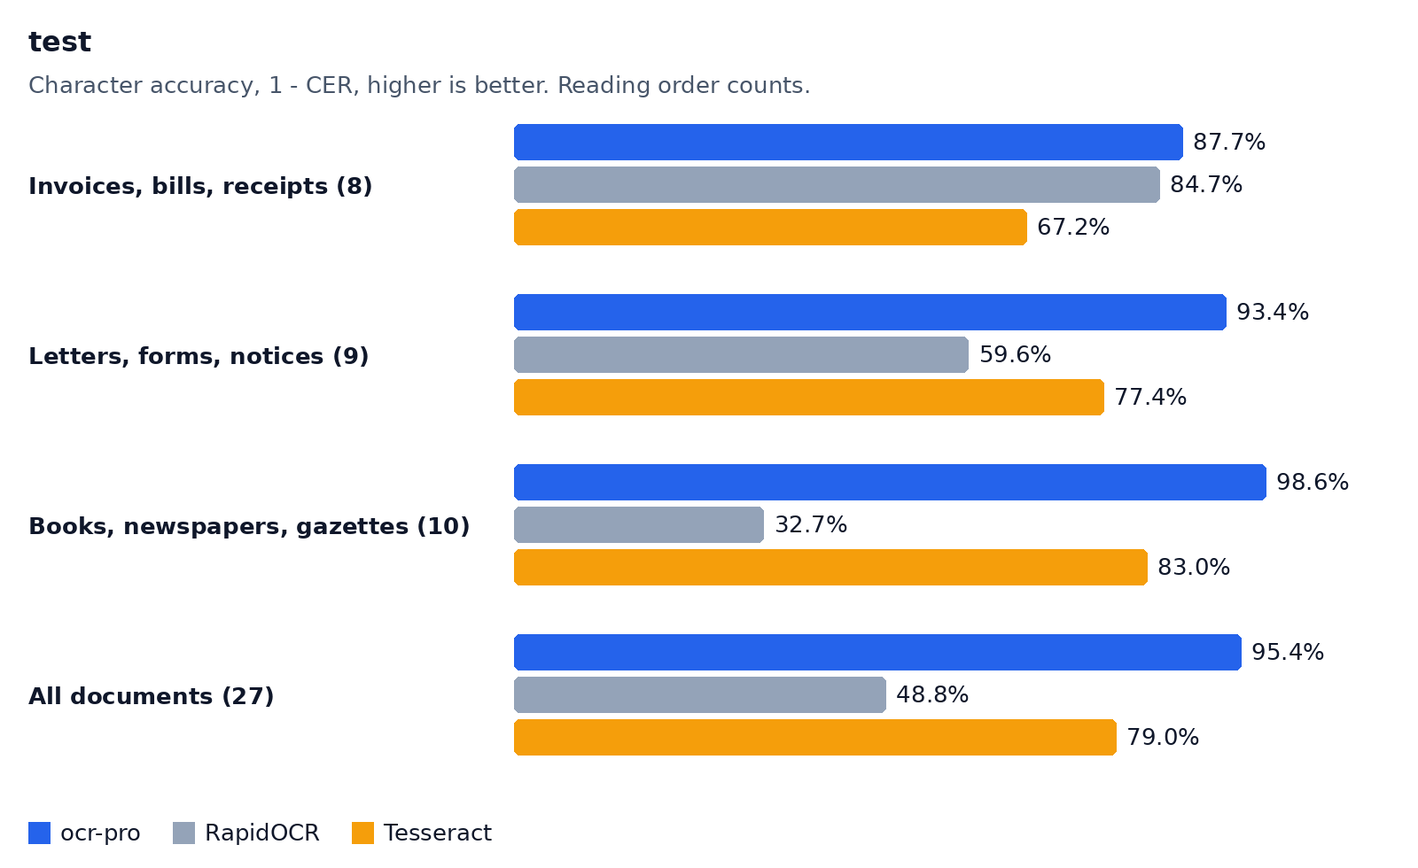
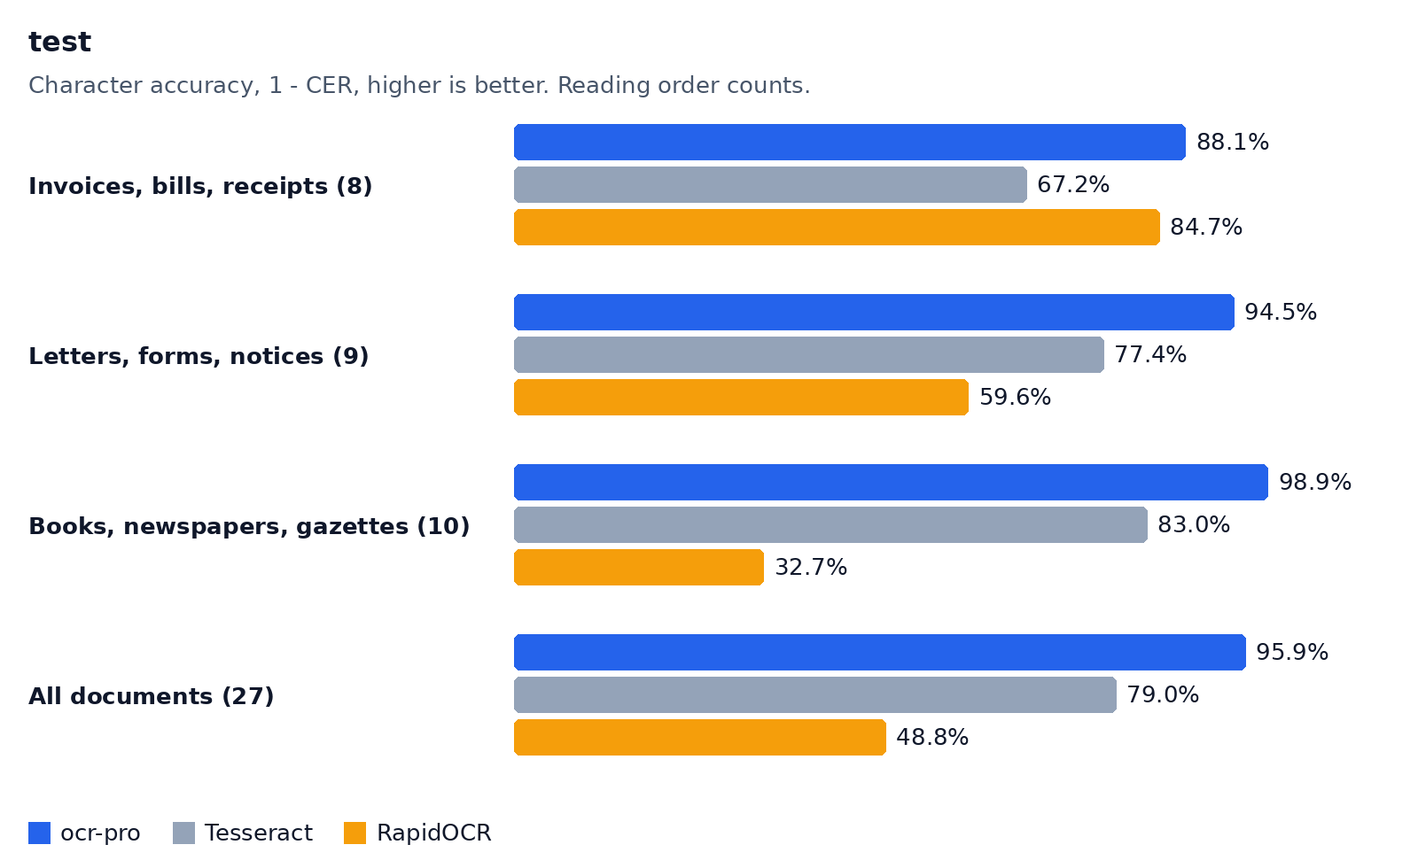
Rebuild the benchmark tables of dev and test with 105 dev documents, and add their charts.

diff --git a/docs/benchmark.md b/docs/benchmark.md
@@ -6,7 +6,7 @@ them. This benchmark uses public documents with references transcribed by hand, 
 
 | Set | Documents | Role |
 | --- | --- | --- |
-| `dev` | 70 (37 PL, 33 EN), 148,127 characters | Used to find and fix problems: the first 20 documents, 16 multi-column pages added for the reading-order work, 3 Official Journal pages moved from `test3` on 2026-10-15, and 31 business documents (receipts, invoices, letters, memos, forms) added on 2026-11-14. The tables below are still those of the first 39 documents (110,882 characters). Its numbers are **not independent**. |
+| `dev` | 105 (55 PL, 50 EN), 203,320 characters | Used to find and fix problems: the first 20 documents, 16 multi-column pages added for the reading-order work, 3 Official Journal pages moved from `test3` on 2026-10-15, and 66 business documents (receipts, invoices, letters, memos, forms, notices) added in three batches on 2026-11-14 and 2026-11-15. Its numbers are **not independent**. |
 | `test` | 27 (18 PL, 9 EN), 59,772 characters | Scored once, before the reading-order work. Its failures then pointed at what to fix, so it is **no longer independent** either. |
 | `test2` | 20 (10 PL, 10 EN), 82,338 characters | Collected during the reading-order work, without looking at any engine output, and scored at the end; scored again after the column-gutter change, which was built on `dev` only (see below). **The honest number.** Do not tune on it. |
 | `test3` | 97 (47 PL, 50 EN), 245,601 characters | Collected without looking at any engine output and checked a second time against the images. Scored once, on 2026-11-14, to decide the box threshold and the dropping of fragments (see "Results on `test3`"); three of its pages had been scored by mistake the same day. It is spent for tuning: do not tune on it. 77 of its pages are books, newspapers and gazettes, so its headline number is the mean of the three document groups. |
@@ -37,12 +37,12 @@ missing. The references are in `bench/ref/<set>/` and carry the same attribution
 
 | Kind | dev | test | test2 | test3 |
 | --- | --- | --- | --- | --- |
-| invoices, bills, receipts | 3 PL, 3 EN | 6 PL, 2 EN | 2 PL, 2 EN | 6 PL, 9 EN |
-| letters, forms, notices | 5 PL, 5 EN | 4 PL, 4 EN | 1 PL, 1 EN | 2 PL, 1 EN |
+| invoices, bills, receipts | 15 PL, 16 EN | 6 PL, 2 EN | 2 PL, 2 EN | 6 PL, 9 EN |
+| letters, forms, notices | 27 PL, 23 EN | 4 PL, 4 EN | 1 PL, 1 EN | 2 PL, 1 EN |
 | books, dictionaries, encyclopedias | 3 PL, 3 EN | 5 PL | 4 PL, 2 EN | 21 PL, 18 EN |
 | newspapers, journals, papers | 5 PL, 5 EN | 3 EN | 2 PL, 3 EN | 10 PL, 16 EN |
 | gazettes, official journals | 5 PL, 2 EN | 2 PL, 1 EN (other) | 1 PL, 2 EN | 6 PL, 6 EN |
-| other | | | | 2 PL tickets |
+| other | 1 EN | | | 2 PL tickets |
 
 Most pages of books, newspapers and gazettes have two or more columns: dictionaries and
 encyclopedias, the Official Journal of the EU, Dziennik Ustaw, 19th-century newspapers with three
@@ -104,8 +104,8 @@ move at three decimals (0.0461 to 0.0462). The other ocr-pro columns of those ro
 gray pages of `test2` (Tesco 1994, NSAM 125, Przegląd Tygodniowy 1903) were not rescored.
 
 All engines ran on one laptop: Intel Core i7-1365U (2 performance + 8 efficiency cores,
-12 threads), Linux, OpenJDK 21.0.12, in one session on 2026-10-15 with no other heavy job
-running, so the times can be compared across engines. The page time is the median over the
+12 threads), Linux, OpenJDK 21.0.12. The times of `test2` are from one session on 2026-10-15
+with no other heavy job running, so they can be compared across engines. The page time is the median over the
 documents of the set; what each engine's time includes is under [Reproduce](#reproduce).
 
 Each set has two tables: one for the whole set, and one with the pooled CER of each document
@@ -137,10 +137,10 @@ neither.
 
 ## Results on `test2`
 
-The tables of `test2`, `test` and `dev` below are from before 2026-11-14: box threshold 0.5,
-fragments kept, and none of that day's changes (gray files read as stored, pages turned and
-levelled, the reading-order fixes). On `test` and the first 39 pages of `dev` the new defaults
-alone took the default profile from 5,315 edits to 4,902; the tables have not been rebuilt.
+The tables of `test2` are from before 2026-11-14: box threshold 0.5, fragments kept, and none
+of the changes since (gray files read as stored, pages turned, levelled and laid flat, the
+reading-order rules for blocks side by side). `test2` has not been scored again, so as not to
+spend it; `test` and `dev` below were, on 2026-11-15.
 
 ![Character accuracy on test2 by document kind](benchmark-test2.png)
 
@@ -191,23 +191,31 @@ Per document, CER / word F1:
 
 ## Results on `test`
 
-| Engine | CER pooled (pl / en / all) | CER median | Word F1 pooled (pl / en / all) | Median page time |
-| --- | --- | --- | --- | --- |
-| ocr-pro | 0.054 / 0.026 / 0.046 | 0.025 | 0.915 / 0.960 / 0.930 | 3.7 s |
-| ocr-pro + polish | 0.052 / 0.025 / 0.044 | 0.020 | 0.934 / 0.969 / 0.946 | — |
-| ocr-pro, fast (960 px) | 0.068 / 0.028 / 0.056 | 0.029 | 0.893 / 0.960 / 0.915 | 2.6 s |
-| ocr-pro, rows (`--layout rows`) | 0.506 / 0.498 / 0.504 | 0.157 | 0.914 / 0.960 / 0.930 | 3.4 s |
-| ocr-pro, Latin alphabet (`--alphabet latin`) | 0.054 / 0.026 / 0.046 | 0.025 | 0.915 / 0.961 / 0.930 | 3.0 s |
-| RapidOCR (same models) | 0.514 / 0.508 / 0.512 | 0.237 | 0.914 / 0.958 / 0.929 | 3.7 s |
-| Tesseract 5 | 0.237 / 0.148 / 0.210 | 0.149 | 0.840 / 0.883 / 0.854 | 1.5 s |
+Scored on 2026-11-15 with the engine of that day (every change described in this document,
+the defaults since 2026-11-14 among them). Tesseract and RapidOCR were run again the same night
+and give what they gave before. Page times are left out of the tables of `test` and `dev`:
+other jobs ran on the machine, and the times of that night say nothing. The last ones measured
+alone are in "What the numbers say".
+
+![Character accuracy on test by document kind](benchmark-test.png)
+
+| Engine | CER pooled (pl / en / all) | CER median | Word F1 pooled (pl / en / all) |
+| --- | --- | --- | --- |
+| ocr-pro | 0.048 / 0.022 / 0.041 | 0.021 | 0.915 / 0.964 / 0.932 |
+| ocr-pro + polish | 0.046 / 0.021 / 0.038 | 0.021 | 0.935 / 0.973 / 0.948 |
+| ocr-pro, fast (960 px) | 0.060 / 0.023 / 0.049 | 0.022 | 0.898 / 0.960 / 0.919 |
+| ocr-pro, rows (`--layout rows`) | 0.511 / 0.502 / 0.508 | 0.152 | 0.915 / 0.964 / 0.931 |
+| ocr-pro, Latin alphabet (`--alphabet latin`) | 0.049 / 0.022 / 0.041 | 0.021 | 0.915 / 0.964 / 0.932 |
+| RapidOCR (same models) | 0.514 / 0.508 / 0.512 | 0.237 | 0.914 / 0.958 / 0.929 |
+| Tesseract 5 | 0.237 / 0.148 / 0.210 | 0.149 | 0.840 / 0.883 / 0.854 |
 
 | Engine | Invoices, bills, receipts (8) | Letters, forms, notices (9) | Books, newspapers, gazettes (10) | Mean of groups |
 | --- | --- | --- | --- | --- |
-| ocr-pro | 0.123 | 0.066 | 0.014 | 0.068 |
-| ocr-pro + polish | 0.120 | 0.065 | 0.011 | 0.065 |
-| ocr-pro, fast (960 px) | 0.138 | 0.097 | 0.010 | 0.082 |
-| ocr-pro, rows (`--layout rows`) | 0.127 | 0.393 | 0.671 | 0.397 |
-| ocr-pro, Latin alphabet (`--alphabet latin`) | 0.123 | 0.066 | 0.014 | 0.068 |
+| ocr-pro | 0.119 | 0.055 | 0.011 | 0.062 |
+| ocr-pro + polish | 0.116 | 0.054 | 0.008 | 0.059 |
+| ocr-pro, fast (960 px) | 0.129 | 0.079 | 0.010 | 0.073 |
+| ocr-pro, rows (`--layout rows`) | 0.124 | 0.403 | 0.673 | 0.400 |
+| ocr-pro, Latin alphabet (`--alphabet latin`) | 0.119 | 0.055 | 0.011 | 0.062 |
 | RapidOCR (same models) | 0.153 | 0.404 | 0.673 | 0.410 |
 | Tesseract 5 | 0.328 | 0.226 | 0.170 | 0.241 |
 
@@ -215,55 +223,62 @@ Per document, CER / word F1:
 
 | Document | ocr-pro | fast | rows | RapidOCR | Tesseract |
 | --- | --- | --- | --- | --- | --- |
-| en-bill-nb-telephone-1932 | 0.195 / 0.843 | 0.220 / 0.876 | 0.195 / 0.843 | 0.282 / 0.852 | 0.464 / 0.642 |
-| en-form-bill-of-sale-reg135 | 0.003 / 0.998 | 0.029 / 0.962 | 0.003 / 0.998 | 0.014 / 0.996 | 0.039 / 0.924 |
-| en-journal-nature-1896-p419 | 0.053 / 0.972 | 0.022 / 0.995 | 0.633 / 0.972 | 0.614 / 0.962 | 0.429 / 0.949 |
-| en-magazine-outing-v45-developers | 0.001 / 0.995 | 0.002 / 0.993 | 0.711 / 0.994 | 0.712 / 0.996 | 0.003 / 0.991 |
-| en-memo-conference-president-1954 | 0.079 / 0.945 | 0.076 / 0.960 | 0.077 / 0.952 | 0.082 / 0.940 | 0.051 / 0.939 |
-| en-newspaper-aparri-news-1900 | 0.014 / 0.933 | 0.013 / 0.935 | 0.744 / 0.933 | 0.750 / 0.925 | 0.197 / 0.774 |
-| en-poster-coalbrookdale-auction-1910 | 0.033 / 0.972 | 0.030 / 0.944 | 0.033 / 0.972 | 0.082 / 0.974 | 0.075 / 0.861 |
+| en-bill-nb-telephone-1932 | 0.189 / 0.862 | 0.218 / 0.870 | 0.189 / 0.862 | 0.282 / 0.852 | 0.464 / 0.642 |
+| en-form-bill-of-sale-reg135 | 0.008 / 0.991 | 0.011 / 0.972 | 0.008 / 0.991 | 0.014 / 0.996 | 0.039 / 0.924 |
+| en-journal-nature-1896-p419 | 0.022 / 0.995 | 0.022 / 0.995 | 0.659 / 0.995 | 0.614 / 0.962 | 0.429 / 0.949 |
+| en-magazine-outing-v45-developers | 0.001 / 0.995 | 0.001 / 0.995 | 0.715 / 0.995 | 0.712 / 0.996 | 0.003 / 0.991 |
+| en-memo-conference-president-1954 | 0.077 / 0.947 | 0.077 / 0.942 | 0.077 / 0.947 | 0.082 / 0.940 | 0.051 / 0.939 |
+| en-newspaper-aparri-news-1900 | 0.013 / 0.936 | 0.013 / 0.936 | 0.745 / 0.936 | 0.750 / 0.925 | 0.197 / 0.774 |
+| en-poster-coalbrookdale-auction-1910 | 0.022 / 0.978 | 0.020 / 0.948 | 0.022 / 0.978 | 0.082 / 0.974 | 0.075 / 0.861 |
 | en-programme-toledo-symphony-1921 | 0.086 / 0.844 | 0.087 / 0.853 | 0.086 / 0.844 | 0.136 / 0.853 | 0.136 / 0.778 |
-| en-receipt-fanzz-2002 | 0.014 / 0.923 | 0.138 / 0.939 | 0.014 / 0.923 | 0.014 / 0.940 | 1.000 / 0.000 |
-| pl-biblia-wujek-1923-s296 | 0.007 / 0.962 | 0.007 / 0.964 | 0.753 / 0.957 | 0.753 / 0.966 | 0.434 / 0.972 |
-| pl-cennik-nr7-poznan-1937-s67 | 0.159 / 0.602 | 0.155 / 0.635 | 0.159 / 0.602 | 0.237 / 0.611 | 0.313 / 0.429 |
-| pl-dziennik-ustaw-1952-s374 | 0.025 / 0.884 | 0.026 / 0.877 | 0.748 / 0.884 | 0.750 / 0.879 | 0.057 / 0.845 |
+| en-receipt-fanzz-2002 | 0.014 / 0.931 | 0.014 / 0.939 | 0.014 / 0.931 | 0.014 / 0.940 | 1.000 / 0.000 |
+| pl-biblia-wujek-1923-s296 | 0.007 / 0.962 | 0.008 / 0.963 | 0.753 / 0.957 | 0.753 / 0.966 | 0.434 / 0.972 |
+| pl-cennik-nr7-poznan-1937-s67 | 0.167 / 0.630 | 0.179 / 0.649 | 0.167 / 0.630 | 0.237 / 0.611 | 0.313 / 0.429 |
+| pl-dziennik-ustaw-1952-s374 | 0.019 / 0.888 | 0.026 / 0.878 | 0.751 / 0.888 | 0.750 / 0.879 | 0.057 / 0.845 |
 | pl-dziennik-ustaw-1994-s302 | 0.002 / 0.995 | 0.002 / 0.995 | 0.727 / 0.995 | 0.732 / 0.994 | 0.001 / 0.991 |
-| pl-encyklopedja-staropolska-1900-s42 | 0.006 / 0.960 | 0.008 / 0.950 | 0.714 / 0.960 | 0.715 / 0.967 | 0.408 / 0.981 |
-| pl-faktura-pge-specyfikacja-2019 | 0.133 / 0.868 | 0.133 / 0.776 | 0.127 / 0.868 | 0.159 / 0.855 | 0.273 / 0.594 |
-| pl-obwieszczenie-stan-wojenny-1981 | 0.095 / 0.913 | 0.164 / 0.824 | 0.619 / 0.913 | 0.619 / 0.919 | 0.493 / 0.849 |
+| pl-encyklopedja-staropolska-1900-s42 | 0.005 / 0.962 | 0.007 / 0.951 | 0.713 / 0.962 | 0.715 / 0.967 | 0.408 / 0.981 |
+| pl-faktura-pge-specyfikacja-2019 | 0.132 / 0.869 | 0.131 / 0.782 | 0.126 / 0.869 | 0.159 / 0.855 | 0.273 / 0.594 |
+| pl-obwieszczenie-stan-wojenny-1981 | 0.075 / 0.899 | 0.129 / 0.836 | 0.649 / 0.899 | 0.619 / 0.919 | 0.493 / 0.849 |
 | pl-odezwa-zhp-lodz-1935 | 0.017 / 0.969 | 0.029 / 0.957 | 0.768 / 0.969 | 0.768 / 0.967 | 0.009 / 0.967 |
-| pl-paragon-castorama-2021 | 0.020 / 0.853 | 0.038 / 0.794 | 0.020 / 0.853 | 0.024 / 0.842 | 0.137 / 0.748 |
+| pl-paragon-castorama-2021 | 0.021 / 0.857 | 0.043 / 0.792 | 0.021 / 0.857 | 0.024 / 0.842 | 0.137 / 0.748 |
 | pl-paragon-inmedio-2024 | 0.033 / 0.831 | 0.035 / 0.821 | 0.033 / 0.831 | 0.041 / 0.800 | 0.149 / 0.495 |
-| pl-pismo-msz-ambasada-palestyny-2010 | 0.162 / 0.904 | 0.147 / 0.906 | 0.125 / 0.904 | 0.142 / 0.903 | 0.105 / 0.819 |
-| pl-pismo-umwp-2026 | 0.008 / 0.988 | 0.028 / 0.962 | 0.008 / 0.988 | 0.007 / 0.990 | 0.013 / 0.975 |
-| pl-rachunek-hurtownia-slupsk-1948 | 0.157 / 0.810 | 0.317 / 0.750 | 0.157 / 0.810 | 0.246 / 0.810 | 0.683 / 0.612 |
-| pl-rachunek-mennica-1931 | 0.470 / 0.777 | 0.467 / 0.747 | 0.461 / 0.777 | 0.490 / 0.758 | 0.683 / 0.489 |
-| pl-slownik-staropolski-arct-s479 | 0.048 / 0.899 | 0.011 / 0.909 | 0.724 / 0.899 | 0.724 / 0.893 | 0.726 / 0.571 |
-| pl-slownik-uczonych-zydow-1905-s11 | 0.009 / 0.961 | 0.007 / 0.973 | 0.009 / 0.961 | 0.010 / 0.957 | 0.010 / 0.980 |
+| pl-pismo-msz-ambasada-palestyny-2010 | 0.111 / 0.920 | 0.097 / 0.927 | 0.111 / 0.920 | 0.142 / 0.903 | 0.105 / 0.819 |
+| pl-pismo-umwp-2026 | 0.007 / 0.990 | 0.010 / 0.962 | 0.007 / 0.990 | 0.007 / 0.990 | 0.013 / 0.975 |
+| pl-rachunek-hurtownia-slupsk-1948 | 0.152 / 0.821 | 0.305 / 0.768 | 0.152 / 0.821 | 0.246 / 0.810 | 0.683 / 0.612 |
+| pl-rachunek-mennica-1931 | 0.444 / 0.785 | 0.442 / 0.757 | 0.444 / 0.785 | 0.490 / 0.758 | 0.683 / 0.489 |
+| pl-slownik-staropolski-arct-s479 | 0.050 / 0.884 | 0.008 / 0.933 | 0.726 / 0.884 | 0.724 / 0.893 | 0.726 / 0.571 |
+| pl-slownik-uczonych-zydow-1905-s11 | 0.009 / 0.961 | 0.010 / 0.971 | 0.009 / 0.961 | 0.010 / 0.957 | 0.010 / 0.980 |
 | pl-statut-zhp-1936-s8 | 0.014 / 0.903 | 0.011 / 0.914 | 0.014 / 0.903 | 0.037 / 0.930 | 0.024 / 0.910 |
-| pl-zaliczka-wspolnota-bialystok-2023 | 0.018 / 0.902 | 0.018 / 0.902 | 0.047 / 0.902 | 0.054 / 0.902 | 0.159 / 0.701 |
+| pl-zaliczka-wspolnota-bialystok-2023 | 0.017 / 0.905 | 0.017 / 0.905 | 0.046 / 0.905 | 0.054 / 0.902 | 0.159 / 0.701 |
 
 ## Results on `dev`
 
-| Engine | CER pooled (pl / en / all) | CER median | Word F1 pooled (pl / en / all) | Median page time |
-| --- | --- | --- | --- | --- |
-| ocr-pro | 0.021 / 0.025 / 0.023 | 0.018 | 0.940 / 0.968 / 0.956 | 3.5 s |
-| ocr-pro + polish | 0.019 / 0.024 / 0.022 | 0.018 | 0.953 / 0.971 / 0.964 | — |
-| ocr-pro, fast (960 px) | 0.093 / 0.048 / 0.069 | 0.021 | 0.921 / 0.948 / 0.937 | 2.4 s |
-| ocr-pro, rows (`--layout rows`) | 0.526 / 0.605 / 0.569 | 0.120 | 0.940 / 0.968 / 0.957 | 3.5 s |
-| ocr-pro, Latin alphabet (`--alphabet latin`) | 0.021 / 0.025 / 0.023 | 0.018 | 0.940 / 0.968 / 0.957 | 3.3 s |
-| RapidOCR (same models) | 0.530 / 0.605 / 0.571 | 0.174 | 0.943 / 0.967 / 0.957 | 3.7 s |
-| Tesseract 5 | 0.062 / 0.159 / 0.115 | 0.060 | 0.938 / 0.903 / 0.918 | 1.8 s |
+Scored on 2026-11-15, all 105 documents; 66 of them are the business documents added on
+2026-11-14 and 2026-11-15, which is why the pooled CER is higher than the 0.023 this table
+showed for the first 39 documents. Those 39 now read at 0.018 (0.017 with the Polish profile),
+the 66 business documents at 0.087 (0.085).
 
-| Engine | Invoices, bills, receipts (6) | Letters, forms, notices (10) | Books, newspapers, gazettes (23) | Mean of groups |
+![Character accuracy on dev by document kind](benchmark-dev.png)
+
+| Engine | CER pooled (pl / en / all) | CER median | Word F1 pooled (pl / en / all) |
+| --- | --- | --- | --- |
+| ocr-pro | 0.053 / 0.046 / 0.049 | 0.038 | 0.923 / 0.961 / 0.944 |
+| ocr-pro + polish | 0.050 / 0.046 / 0.048 | 0.037 | 0.942 / 0.964 / 0.955 |
+| ocr-pro, fast (960 px) | 0.100 / 0.058 / 0.078 | 0.057 | 0.902 / 0.951 / 0.930 |
+| ocr-pro, rows (`--layout rows`) | 0.333 / 0.410 / 0.374 | 0.089 | 0.923 / 0.960 / 0.944 |
+| ocr-pro, Latin alphabet (`--alphabet latin`) | 0.051 / 0.046 / 0.049 | 0.036 | 0.923 / 0.960 / 0.944 |
+| RapidOCR (same models) | 0.353 / 0.421 / 0.389 | 0.129 | 0.911 / 0.955 / 0.936 |
+| Tesseract 5 | 0.127 / 0.163 / 0.146 | 0.105 | 0.875 / 0.895 / 0.886 |
+
+| Engine | Invoices, bills, receipts (31) | Letters, forms, notices (51) | Books, newspapers, gazettes (23) | Mean of groups |
 | --- | --- | --- | --- | --- |
-| ocr-pro | 0.030 | 0.063 | 0.020 | 0.038 |
-| ocr-pro + polish | 0.028 | 0.061 | 0.019 | 0.036 |
-| ocr-pro, fast (960 px) | 0.028 | 0.069 | 0.070 | 0.056 |
-| ocr-pro, rows (`--layout rows`) | 0.030 | 0.064 | 0.623 | 0.239 |
-| ocr-pro, Latin alphabet (`--alphabet latin`) | 0.029 | 0.063 | 0.020 | 0.038 |
-| RapidOCR (same models) | 0.038 | 0.086 | 0.623 | 0.249 |
-| Tesseract 5 | 0.156 | 0.142 | 0.112 | 0.137 |
+| ocr-pro | 0.178 | 0.063 | 0.014 | 0.085 |
+| ocr-pro + polish | 0.175 | 0.061 | 0.013 | 0.083 |
+| ocr-pro, fast (960 px) | 0.166 | 0.072 | 0.066 | 0.101 |
+| ocr-pro, rows (`--layout rows`) | 0.184 | 0.120 | 0.623 | 0.309 |
+| ocr-pro, Latin alphabet (`--alphabet latin`) | 0.177 | 0.062 | 0.014 | 0.084 |
+| RapidOCR (same models) | 0.185 | 0.156 | 0.623 | 0.321 |
+| Tesseract 5 | 0.357 | 0.141 | 0.112 | 0.203 |
 
 ## What changed in this round
 
@@ -297,6 +312,32 @@ On `test`, scored before this round, the pooled CER of ocr-pro fell from 0.214 t
 median from 0.087 to 0.025. Examples: the Bible page 0.433 to 0.007, the 1952 Dziennik Ustaw 0.453
 to 0.026, Arct's dictionary 0.735 to 0.048, the 1981 poster photo 0.669 to 0.095.
 
+## What changed on 2026-11-14 and 2026-11-15
+
+Everything here was built on `dev` and `test`; `test2` and `test3` were not looked at. The
+`test3` table above was scored once, in the middle of it, for the first item.
+
+1. **New defaults:** box threshold 0.4, and short lines the recognizer is unsure of are left
+   out (see "Results on `test3`").
+2. **Pages are set right before they are read** (see "Turning the page" in
+   [internals.md](internals.md)): a page on its side or upside down is turned, a page askew by up
+   to 45 degrees is levelled, a page photographed from the side or from below, whose lines or
+   margins run to a point, is laid flat, a small page with small print is enlarged, and a
+   picture too large for the heap is read smaller. A long line is shown to the orientation
+   classifier by its middle; squeezed whole, it was now and then read upside down.
+3. **Blocks side by side** (steps 7 and 8 of "Reading order"): they are columns only where
+   they stand beside each other, and two small blocks whose lines share baselines are the
+   cells of rows. A line is cut at a gutter the boxes suggest only when the ink does not deny
+   the gutter.
+4. **Sixty-six business documents** joined `dev`: receipts, invoices, letters, memos, forms and
+   notices. They are what item 3 was built on, and why `dev` is now harder than `test`.
+
+On `test` the pooled CER of ocr-pro went from 0.046 to 0.041 and with the Polish profile from
+0.044 to 0.038; on the first 39 documents of `dev` from 0.023 to 0.018. Pages that are not
+upright, level and flat when given gain far more than these sets show, since nearly all of their
+pages are: every page of `dev` and `test` turned by a quarter or a half reads as it does
+upright, where four sample pages went from 94 edits to over 2,200 before.
+
 ## What the numbers say
 
 - **Recognition is the strongest part.** Word F1, which ignores order, is above Tesseract on every
@@ -304,7 +345,9 @@ to 0.026, Arct's dictionary 0.735 to 0.048, the 1981 poster photo 0.669 to 0.095
   Runtime.
 - **Invoices, bills and receipts favor ocr-pro by a wide margin.** On `test2` its character
   accuracy on them is 95 % against 67 % for Tesseract (90 % before the number rule, see above),
-  and Tesseract returns nothing for a 1994 Tesco receipt. On `test` it is 88 % against 67 %.
+  and Tesseract returns nothing for a 1994 Tesco receipt. On `test` it is 88 % against 67 %, and
+  on the 31 of `dev` 82 % against 64 %. Letters, forms and notices: 94 % against 86 % on the 51
+  of `dev`.
 - **Reading order is far ahead of RapidOCR**, which reads the same models row by row: pooled CER
   0.079 against 0.656 on `test2`. `--layout rows` gives the same row order inside ocr-pro (0.654);
   on invoices and receipts it equals the automatic layout, and everywhere else it loses.
@@ -322,7 +365,12 @@ to 0.026, Arct's dictionary 0.735 to 0.048, the 1981 poster photo 0.669 to 0.095
   0.001). These pages are spent: a fix based on them needs new test documents.
 - **Detection at 2048 px wins on every set**, by a wide margin on English pages of `test2` (0.107
   against 0.310 at 960 px); on its Polish pages the two tie (0.031). 960 px is the fast setting.
-- **Speed.** Median page time on `test2` / `test` / `dev`: ocr-pro 6.7 / 3.7 / 3.5 s, RapidOCR
+- **Row order is no longer better on business documents.** On the invoices and receipts of
+  `dev` the layout analysis and `--layout rows` are level (0.178 and 0.184), and on its letters,
+  forms and notices the analysis is at 0.063 against 0.120; before the rules of 2026-11-15 rows
+  won on fourteen of its 66 business documents.
+- **Speed** (measured on 2026-10-15, on the first 39 documents of `dev`; not measured again).
+  Median page time on `test2` / `test` / `dev`: ocr-pro 6.7 / 3.7 / 3.5 s, RapidOCR
   on ONNX Runtime with the same models 5.2 / 3.7 / 3.7 s, Tesseract 3.5 / 1.5 / 1.8 s. Dense
   newspaper pages with a hundred lines and more take longest (Scientific American 1850: 19.6 s).
   `--limit 960` takes 15–31 % less time (5.7 / 2.6 / 2.4 s). `--alphabet latin` takes 8–18 %

diff --git a/docs/HANDOFF.md b/docs/HANDOFF.md
@@ -444,7 +444,36 @@ gutter fix and the flattening):
   374. Since that day `ro.sh dump` reads all pages with one engine and fragments kept
   (`RoDump`), the cache carries the score of every line (`<name>.score`), and `score` and
   `jitter` drop the fragments after ordering, as the engine does. A cache from before has no
-  scores and is ordered as before; empty `bench/out/ro/json` and dump again.
+  scores and is ordered as before; empty `bench/out/ro/json` and dump again. With the new
+  cache the workbench gives the engine's edits on every page of `dev` and `test` to within
+  rounding (0.0495 and 0.0406 pooled against 0.0493 and 0.0406), but for one: the Helios cinema
+  ticket, 17 degrees askew, 64 against 24. The engine orders such a page on the levelled
+  picture and after a second detection; the cache has its boxes as they lie on the picture
+  as given. The same holds for any page the engine turns level or lays flat.
+
+**The benchmark tables, rebuilt on 2026-11-15 for `dev` and `test`.** docs/benchmark.md and the
+README have the engine of that morning (commit `ac3809c`) in five variants on both sets, with
+Tesseract and RapidOCR run again on all 105 and 27 documents, and a chart for each set
+(`docs/benchmark-dev.png`, `docs/benchmark-test.png`).
+
+| | `dev` (105) | `test` (27) |
+| --- | --- | --- |
+| ocr-pro | 0.049 | 0.041 |
+| ocr-pro + polish | 0.048 | 0.038 |
+| ocr-pro, `--limit 960` | 0.078 | 0.049 |
+| ocr-pro, `--layout rows` | 0.374 | 0.508 |
+| RapidOCR, same models | 0.389 | 0.512 |
+| Tesseract 5 | 0.146 | 0.210 |
+
+- **Not scored: `test2` and `test3`.** Their tables are from before 2026-11-14 and from
+  2026-11-14. Scoring them again spends them once more; that is the owner's call. Tesseract
+  was run over `test3` that night (`bench/out/test3-tesseract`, 97 outputs) and its output was
+  not scored or looked at; RapidOCR was not run on `test3`.
+- **No page times.** Other jobs ran on the machine all night (load 20 to 50 on twelve
+  threads), so the times of these runs mean nothing and the tables of `dev` and `test` leave
+  them out. The last times measured alone are those of 2026-10-15.
+- The scores are in `bench/out/<set>-<variant>.tsv` (not in git), the earlier ones in the
+  scratch directory of that session only.
 
 **A breach of the benchmark rules, 2026-11-14.** The first gray comparison in the review ran on
 every gray file of `bench/data`, with the default profile. That scored three `test3` pages
@@ -494,7 +523,7 @@ Sets and their status, see [benchmark.md](benchmark.md):
 
 | Set | Use |
 | --- | --- |
-| `dev` (70) | Look at it, debug on it, tune on it. 31 of them are the business documents of 2026-11-14; the published tables are still those of the first 39. |
+| `dev` (105) | Look at it, debug on it, tune on it. 66 of them are the business documents of 2026-11-14 and 2026-11-15. |
 | `test` (27) | Spent: its failures drove the last round. Use it as a regression check, like `dev`. |
 | `test2` (20) | Scored once. These pages were looked at when reporting and are spent for tuning: Smyk receipt, Scientific American 1850, The Crisis 1910, kalendarz Ungra 1878, London Gazette 1836, NSAM 125 memo. Do not tune on any `test2` page. |
 | `test3` (97) | Scored once, on 2026-11-14, for the box threshold and the dropping of fragments (benchmark.md, "Results on `test3`"). Spent for tuning, like `test2`: its pages have not been looked at and must not be. Tesseract and RapidOCR have not been run on it. |

diff --git a/README.md b/README.md
@@ -181,13 +181,16 @@ the round before and then pointed at what to fix.
 
 | Engine | `test2` CER pooled / median | `test2` word F1 | `test` CER pooled / median | `test` word F1 | Median time (`test2` / `test`) |
 | --- | ---: | ---: | ---: | ---: | ---: |
-| **ocr-pro** | 0.079 / **0.033** | 0.951 | **0.046 / 0.025** | **0.930** | 6.7 s / 3.7 s |
-| ocr-pro, `--limit 960` | 0.205 / 0.037 | 0.935 | 0.056 / 0.029 | 0.915 | 5.7 s / 2.6 s |
-| ocr-pro, `--layout rows` | 0.654 / 0.659 | 0.951 | 0.504 / 0.157 | 0.930 | about the same |
+| **ocr-pro** | 0.079 / **0.033** | 0.951 | **0.041 / 0.021** | **0.932** | 6.7 s / 3.7 s |
+| ocr-pro, `--limit 960` | 0.205 / 0.037 | 0.935 | 0.049 / 0.022 | 0.919 | 5.7 s / 2.6 s |
+| ocr-pro, `--layout rows` | 0.654 / 0.659 | 0.951 | 0.508 / 0.152 | 0.931 | about the same |
 | RapidOCR, same models on ONNX Runtime | 0.656 / 0.662 | 0.951 | 0.512 / 0.237 | 0.929 | 5.2 s / 3.7 s |
 | Tesseract 5 (`pol` / `eng`) | **0.070 / 0.033** | 0.934 | 0.210 / 0.149 | 0.854 | 3.5 s / 1.5 s |
 
-CER counts reading order; word F1 does not. The test machine was an Intel i7-1365U laptop with
+CER counts reading order; word F1 does not. The `test` columns of ocr-pro are from 2026-11-15;
+`test2` has not been scored since October 2026, so as to keep it unspent, and the times are
+from 2026-10-15.
+The test machine was an Intel i7-1365U laptop with
 12 threads; all engines ran in one session with nothing else heavy running. `--layout rows` reads row by row like RapidOCR: it matches the automatic layout on
 invoices and receipts and loses on everything with columns.
 

diff --git a/bench/README.md b/bench/README.md
@@ -4,7 +4,7 @@ These are public documents with references transcribed by hand. Read
 [docs/benchmark.md](../docs/benchmark.md) for the rules, the results and how to reproduce them.
 
 - `manifest.tsv`: source URL, SHA-256, license and author of every document, and its set:
-  - `dev` (70 documents): used to find and fix problems. Numbers on it are not independent.
+  - `dev` (105 documents): used to find and fix problems. Numbers on it are not independent.
   - `test` (27 documents): scored once in the previous round, then used to find the layout
     problems of this one. No longer independent.
   - `test2` (20 documents): scored at the end of this round and again after a change built on
